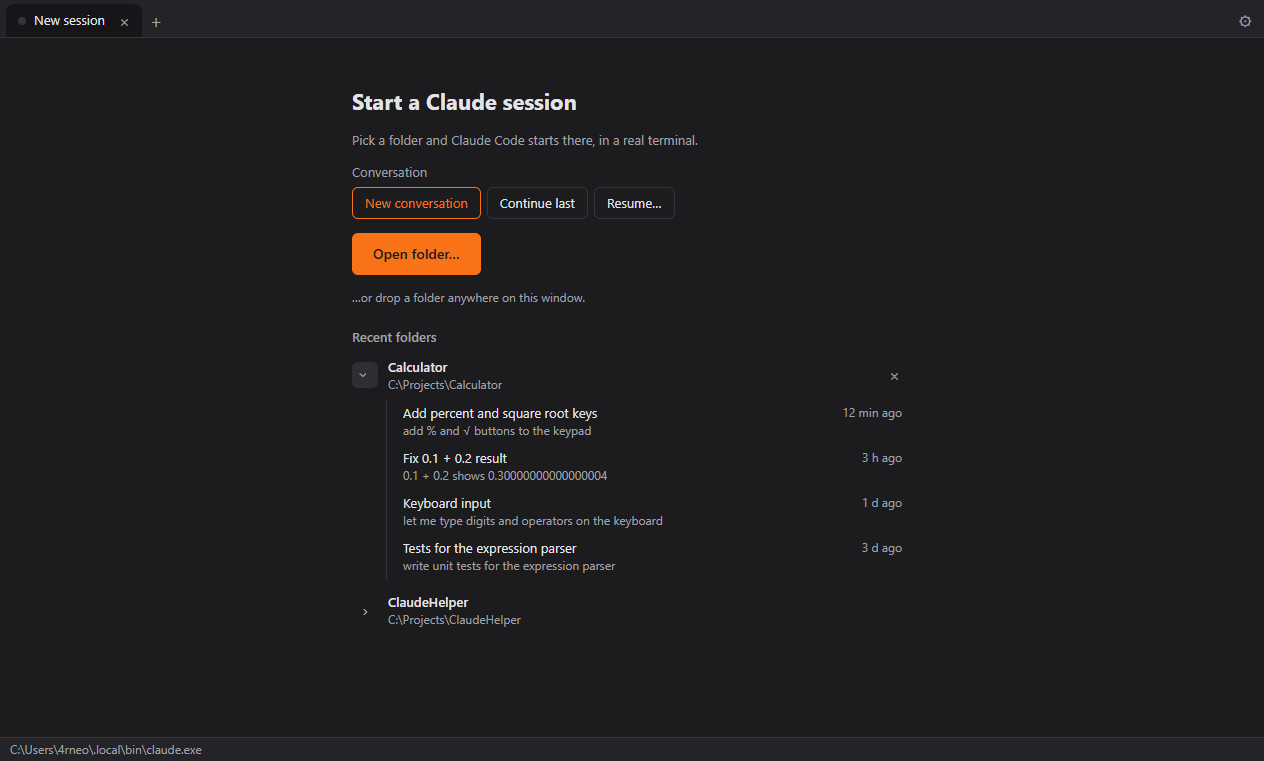
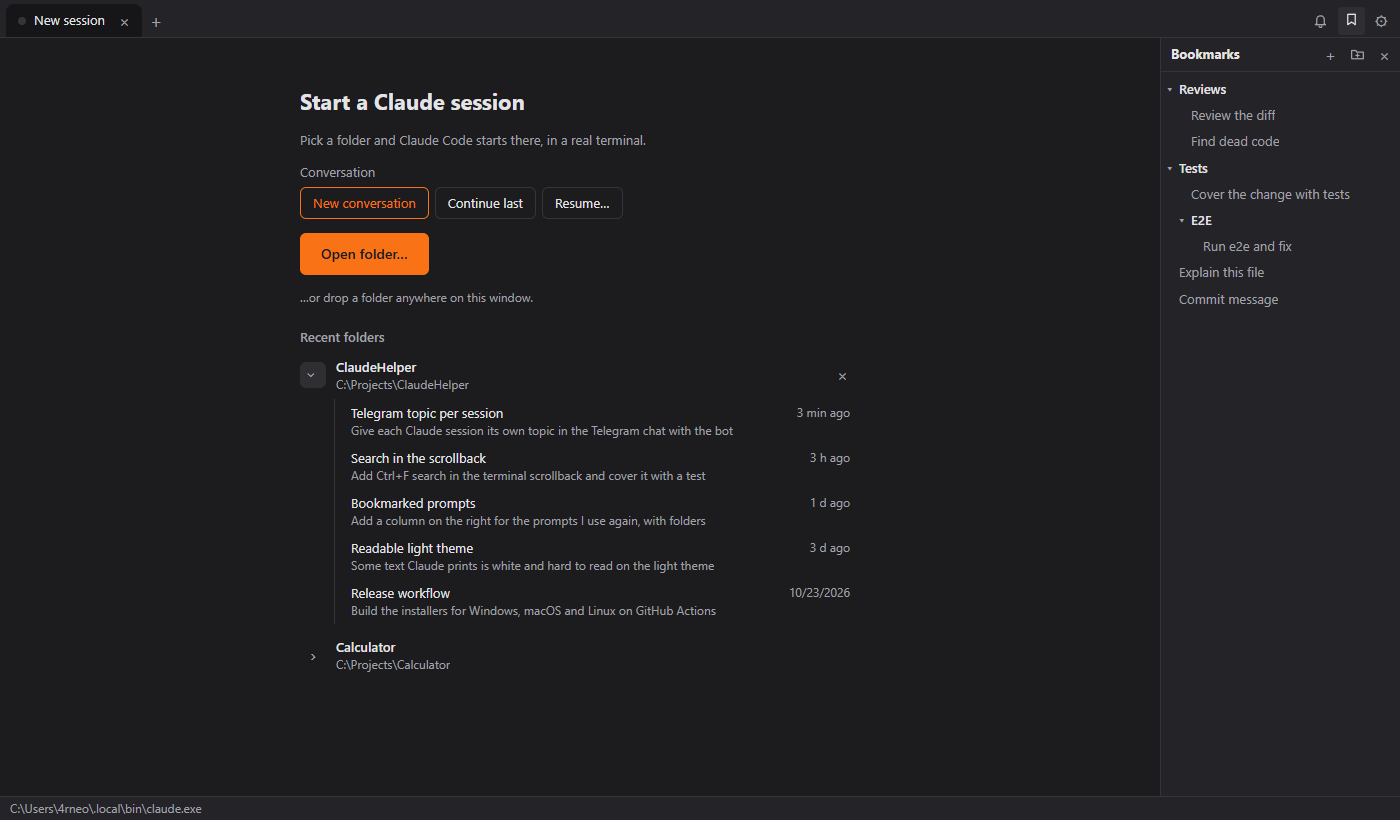
readme update

diff --git a/README.md b/README.md
@@ -2,24 +2,33 @@
 
 A desktop app for **Windows, macOS and Linux** that runs the real **Claude Code CLI** in tabs and split panes. Pick a folder and a Claude session starts there. Close the app, and next time everything comes back: folders, tabs, splits with their sizes, the window, and each tab's conversation.
 
+It tells you when a session is done or needs your answer: with a sound, on its tab, on the taskbar, and, if you like, on your phone through your own Telegram bot, where you can answer Claude, send it prompts and read its replies.
+
 **[Download the latest release](https://github.com/4rneorist/ClaudeHelper/releases/latest).** It has installers for Windows (`.exe`), macOS (`.dmg`, Apple Silicon) and Linux (`.AppImage` and `.deb`). You also need the Claude Code CLI, see [Install](#install).
+
+### New since 1.0.1
+
+- **Claude on your phone.** Your own Telegram bot (optional) says when a session finishes or needs you, headed `✅ IDLE`, `🔔 NEED YOUR ATTENTION` or `⏰ STILL NEEDS YOUR ATTENTION`. With remote control on, you can answer Claude's questions with a tap (or with numbers and your own words where it takes several answers), send prompts, read what a chat shows, and open new chats. Claude's whole reply comes back when it is done, formatted for a phone, tables included. With Threaded Mode on for the bot, each session gets its own topic.
+- **Bookmarked prompts.** Keep the prompts you use again in folders and subfolders, in a column on the right. One click puts a prompt into the session; the right-click menu bookmarks selected text and pastes bookmarks.
+- **Search and jump.** Ctrl+F searches the scrollback; Ctrl+↑ and Ctrl+↓ jump between your messages to Claude.
+- **Open files from the output**, like in VS Code: Ctrl+click a path that Claude or a shell printed.
+- **Send text to another session** from the right-click menu, and **snip the screen into the prompt** with Ctrl+Shift+S.
+- **Jira ticket from the branch** on the folder tab (optional), one click away.
+- **A picture behind the terminals**, as in Windows Terminal, with how much it shows and how it fits. Text that would get lost on it, or on the light theme, is darkened or lightened until it reads.
 
 ### What's new in 1.0.1
 
 - **See what each Claude is doing.** The status dot is green and pulsing while Claude works, yellow when it's done and waits for your next prompt, and red and pulsing when it needs your answer (a permission prompt, a question, a plan to approve). A folder tab is red if any Claude in it needs you, green if any is still working, and yellow only when all are idle.
 - **Never miss a session that needs you.** A sound for "finished" and another for "needs your answer", every time. For a session you aren't looking at, its tab is underlined, a toast says where it's from, and the bell at the top right keeps the list. With the window in the background or minimized, the taskbar button turns red or yellow and Windows shows a notification.
-- **Away from the computer?** Optionally, your own Telegram bot sends you a message when a session finishes or needs your answer. With remote control on, you can also answer Claude's questions from your phone, send prompts, read a chat and open new ones.
 - **Get there fast.** Ctrl+Shift+J jumps to the next session that waits, the status bar counts them ("● 1 needs your answer · ● 2 finished"), and hovering a tab previews its last lines.
 - **Less noise when you want it.** Mute a session or a folder, switch on Do not disturb, choose the sounds and their volume, and set how often a question that is still waiting reminds you.
 - **Name and color your tabs.** ⚙ on a folder or session tab sets its title and color; drag tabs to reorder them.
 - **Two folders side by side.** "Join sessions to" in a folder's settings shows two folders next to each other, each with its own tabs.
-- **Bookmarked prompts.** Keep the prompts you use again in folders and subfolders, in a column on the right. One click puts a prompt into the session; the right-click menu bookmarks selected text and pastes bookmarks.
 - **Git branch on each folder tab**, with `*` when there are uncommitted changes.
-- **A picture behind the terminals**, as in Windows Terminal: Settings → Background picture, with how much it shows and whether it fills, fits, stretches or tiles. Text that would get lost on it, or on the light theme, is darkened or lightened until it reads.
 
 Details for each are under [Features](#features).
 
-![ClaudeHelper with two colored folder tabs, ClaudeHelper in blue and Calculator in green. The open one is split: Claude in ClaudeHelper on the left, Claude docked from the Calculator folder top right, PowerShell running the tests bottom right](docs/screenshots/main.png)
+![ClaudeHelper with two colored folder tabs, ClaudeHelper in blue and Calculator in green. ClaudeHelper is split: on the left a prompt being written, on the right Claude's answer to a question about the code. The bookmarks column is open on the right](docs/screenshots/main.png)
 
 ## Why ClaudeHelper
 
@@ -31,24 +40,34 @@ Details for each are under [Features](#features).
 - **Knows when Claude needs you.** Each tab shows whether Claude works, is done or waits for your answer, with a sound for each. Sessions you aren't looking at get a toast, an entry under the bell and a red or yellow taskbar button, and Ctrl+Shift+J takes you there.
 - **Old conversations a click away.** The start screen lists the last conversations in each recent folder; click one to resume it.
 - **A shell next to Claude.** PowerShell, Command Prompt, Git Bash and WSL on Windows; your login shell, bash, zsh and fish on macOS and Linux.
+- **Answer from anywhere.** With your own Telegram bot, Claude's questions, calls and replies reach your phone, and you can answer and send prompts from there. Only your own chat with the bot is obeyed.
+- **Prompts you use again, at hand.** Bookmarked prompts in folders, a search over the scrollback, and file paths you can click open.
 
 ## Screenshots
 
-**Start screen.** Recent folders, each with its last conversations.
+**Start screen.** Recent folders, each with its last conversations; the bookmarks column on the right.
 
-![Start screen with recent folders. Calculator is expanded and lists its last four conversations](docs/screenshots/start.png)
+![Start screen with recent folders. ClaudeHelper is expanded and lists its last five conversations. The bookmarks column on the right has the folders Reviews and Tests and two prompts](docs/screenshots/start.png)
 
 **New terminal menu (▾).** A new, continued or resumed Claude conversation, or any shell installed on the machine.
 
-![The new terminal menu: New conversation, Continue last, Resume, and the shells Windows PowerShell, Command Prompt, Git Bash and WSL](docs/screenshots/new-terminal-menu.png)
+![The new terminal menu: New conversation, Continue last, Resume, and the shells installed on the machine](docs/screenshots/new-terminal-menu.png)
 
-**Settings.** Restoring on start, theme, font size and which `claude` to run. (Newer versions also have the notification, sound and reminder settings.)
+**Folder settings (⚙).** Title, color, muting, and joining another folder to see both side by side.
 
-![Settings dialog with the claude executable, font size, theme and "Reopen folders, tabs and splits from last time"](docs/screenshots/settings.png)
+![The settings of the ClaudeHelper folder tab: title, ten preset colors and a custom one, mute, and Join sessions to](docs/screenshots/folder-settings.png)
 
-**Tab colors.** Pick a color in a folder's or terminal's settings (⚙). (The screenshot shows the older color-only picker; ⚙ now also has the title, muting and, for folders, joining.)
+**Settings.** Which `claude` to run, font size, theme, a background picture, restoring on start, notifications and sounds.
 
-![The color picker under the green Calculator tab: ten preset colors, a custom color and No color](docs/screenshots/tab-colors.png)
+![The top of the Settings dialog: the claude executable, font size, theme, background picture and reopening last time's folders](docs/screenshots/settings.png)
+
+**Telegram.** Your own bot, remote control, and a topic per session.
+
+![The Telegram part of Settings: bot token, chat ID, when to send, remote control, and "Topics per session" saying Threaded Mode is on](docs/screenshots/telegram-settings.png)
+
+**A picture behind the terminals.**
+
+![The split sessions with a dark blue wallpaper faintly behind the text](docs/screenshots/picture.png)
 
 ## Install
 
